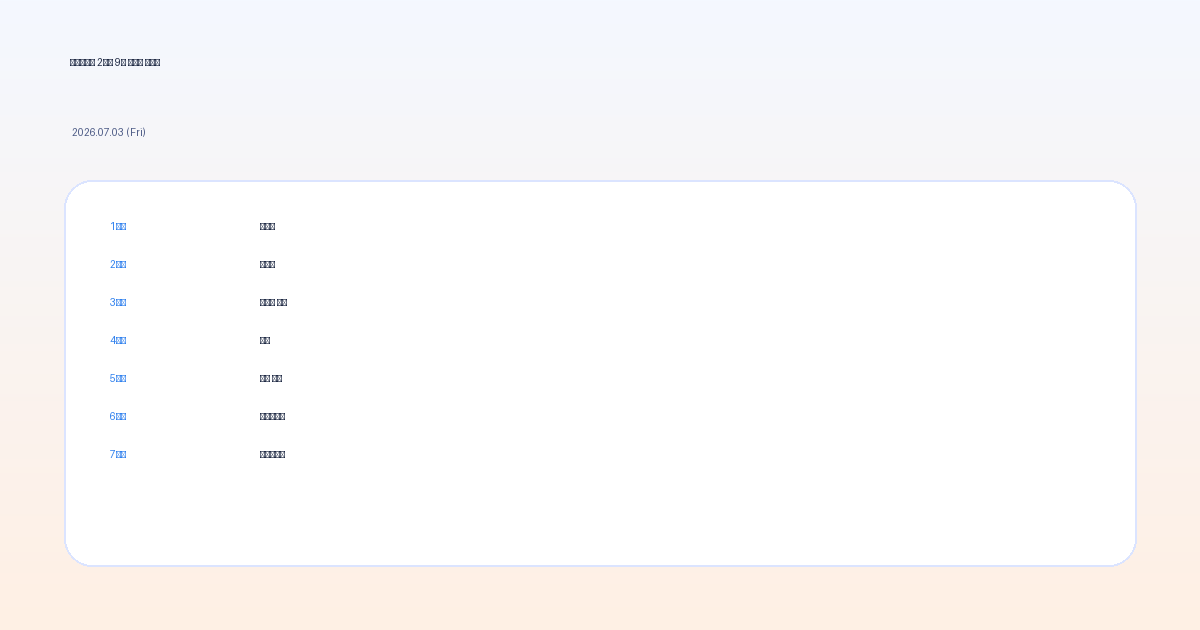
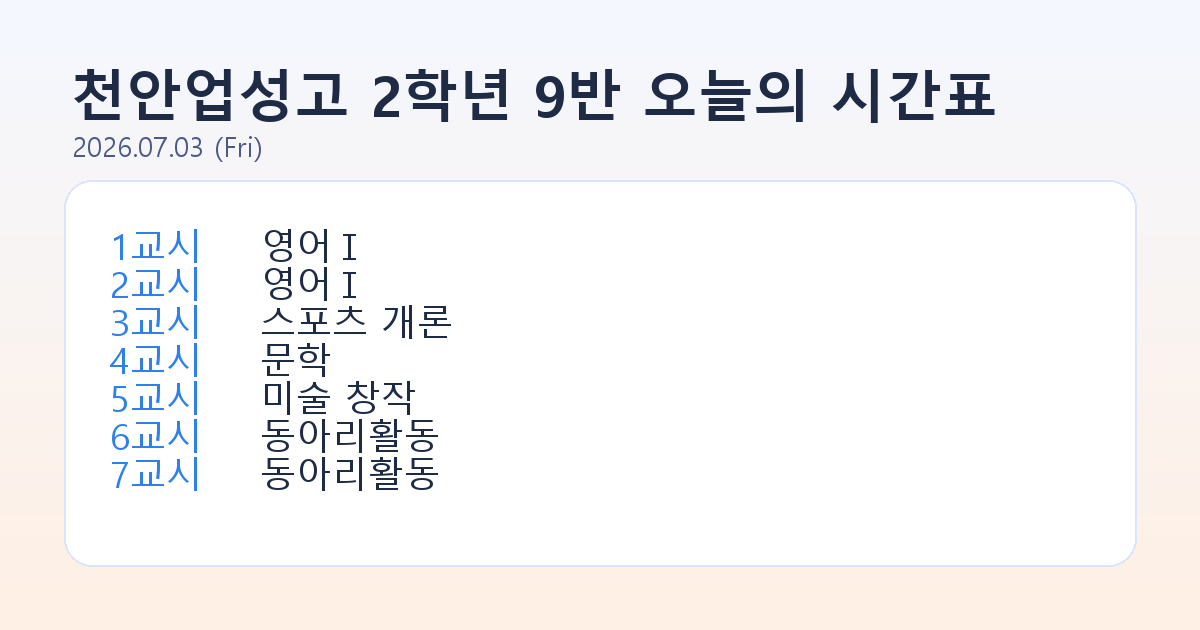
fix: stabilize OG update workflow and image metadata

Changed region(s): [[0.0617, 0.0905, 0.8325, 0.2714], [0.2158, 0.3619, 0.37, 0.7841], [0.0925, 0.3619, 0.1542, 0.7841]]

diff --git a/index.html b/index.html
@@ -7,7 +7,9 @@
 
   <meta property="og:title" content="천안업성고 2-9 오늘의 시간표" />
   <meta property="og:description" content="오늘 수업을 빠르게 확인하고 공유하세요." />
-  <meta property="og:image" content="./assets/og/today_timetable.png" />
+  <meta property="og:image" content="https://0115seed-sketch.github.io/timetable/assets/og/today_timetable.png" />
+  <meta property="og:image:width" content="1200" />
+  <meta property="og:image:height" content="630" />
   <meta property="og:type" content="website" />
 
   <script src="https://cdn.tailwindcss.com"></script>

diff --git a/scripts/generate_og.py b/scripts/generate_og.py
@@ -24,6 +24,7 @@ def find_font(size: int, bold: bool = False) -> ImageFont.FreeTypeFont | ImageFo
             [
                 "/usr/share/fonts/opentype/noto/NotoSansCJK-Bold.ttc",
                 "/usr/share/fonts/truetype/nanum/NanumGothicBold.ttf",
+                "C:/Windows/Fonts/malgunbd.ttf",
             ]
         )
     else:
@@ -31,6 +32,7 @@ def find_font(size: int, bold: bool = False) -> ImageFont.FreeTypeFont | ImageFo
             [
                 "/usr/share/fonts/opentype/noto/NotoSansCJK-Regular.ttc",
                 "/usr/share/fonts/truetype/nanum/NanumGothic.ttf",
+                "C:/Windows/Fonts/malgun.ttf",
             ]
         )
 